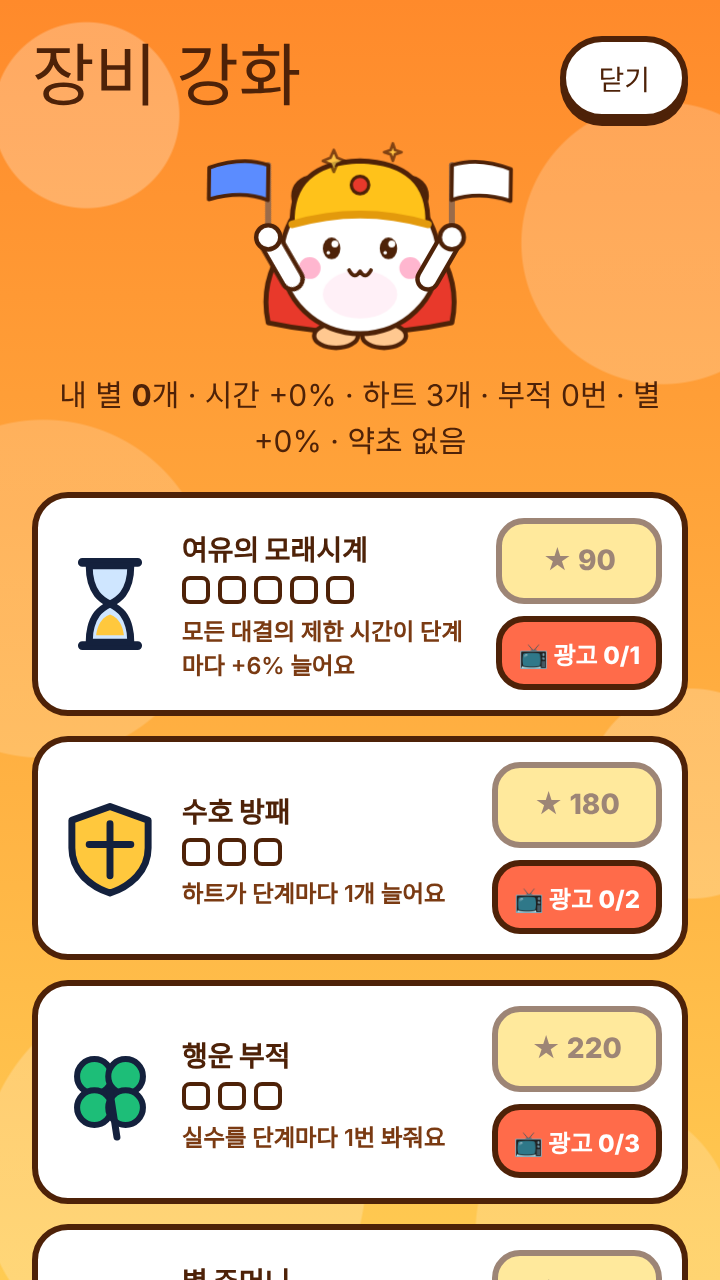
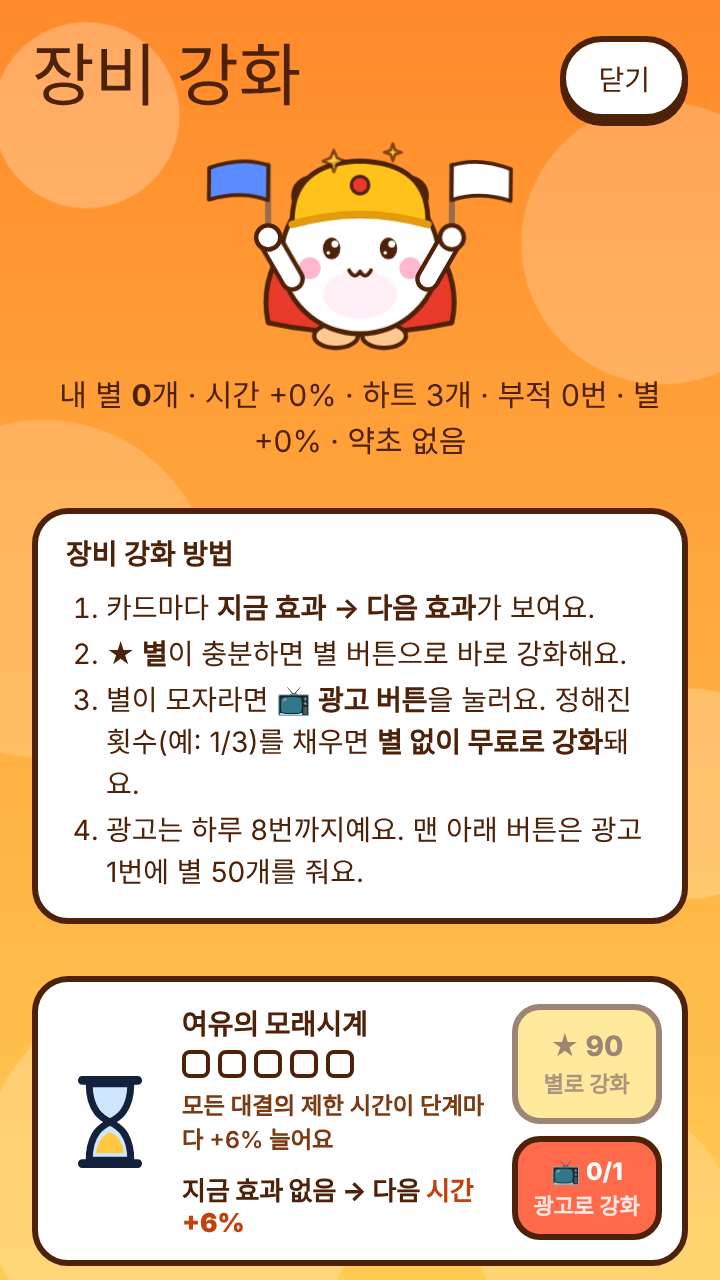
깃발용사: clearer gear upgrade guide (current→next effect, star/ad buttons)
Claude-Session: https://claude.ai/code/session_0134mUxM4o6J5pGvRH1fZomD

Changed region(s): [[0.0306, 0.375, 0.9778, 1.0]]

diff --git a/hero/index.html b/hero/index.html
@@ -491,6 +491,10 @@ svg [hidden]{display:none !important}
 .eqt small{font-weight:600;color:var(--ink-soft)}
 .lvs{display:flex;gap:4px}.lvs i{width:14px;height:14px;border-radius:4px;border:2px solid var(--ink);background:#fff}.lvs i.on{background:var(--sun)}
 .eqc button{border:3px solid var(--ink);border-radius:14px;padding:10px 12px;font:inherit;font-weight:800;background:var(--sun);color:var(--ink);cursor:pointer;min-width:64px}
+.eqhow{background:#fff;border:3px solid var(--ink);border-radius:18px;padding:10px 14px;margin:8px 0 12px;font-size:14px;line-height:1.5}
+.eqhow ol{margin:6px 0 0;padding-left:20px}.eqhow li{margin:2px 0}
+.eqn{margin-top:4px;font-size:13px;font-weight:800}.eqn .nx{color:#C2410C}
+.eqc button small{display:block;font-size:11px;font-weight:700;opacity:.85;margin-top:1px}
 .eqb{display:flex;flex-direction:column;gap:6px}
 .eqc button.adi{background:var(--coral);color:#fff;font-size:12px;padding:7px 8px}
 .eqc button.adi:disabled{background:var(--line);color:var(--ink-soft)}
@@ -637,6 +641,11 @@ html[data-th="night"] .stage .hero{filter:drop-shadow(0 0 10px rgba(255,255,255,
   <div class="hq"><h2>장비 강화</h2><button class="xbtn" id="shopClose">닫기</button></div>
   <div class="mascot" id="shopMascot"></div>
   <p class="cintro" style="min-height:0;margin:0">내 별 <b id="shopFp"></b>개 · <span id="shopHero"></span></p>
+  <div class="eqhow"><b>장비 강화 방법</b>
+    <ol><li>카드마다 <b>지금 효과 → 다음 효과</b>가 보여요.</li>
+    <li><b>★ 별</b>이 충분하면 별 버튼으로 바로 강화해요.</li>
+    <li>별이 모자라면 <b>📺 광고 버튼</b>을 눌러요. 정해진 횟수(예: 1/3)를 채우면 <b>별 없이 무료로 강화</b>돼요.</li>
+    <li>광고는 하루 8번까지예요. 맨 아래 버튼은 광고 1번에 별 50개를 줘요.</li></ol></div>
   <div class="eqlist" id="shopGrid"></div>
   <button class="cta adbtn" id="shopAd" type="button"></button>
   <p class="rknote">장비는 모험과 용사의 탑 모두에서 효과가 있어요. 별이 모자라면 광고를 보고 모을 수 있어요.</p>
@@ -1196,6 +1205,7 @@ const EQ={
  charm:{n:'행운 부적',e:'실수를 단계마다 1번 봐줘요',max:3,cost:[220,480,900]},
  pouch:{n:'별 주머니',e:'대결에서 받는 별이 단계마다 +10% 늘어요',max:5,cost:[150,270,450,680,980]},
  herb:{n:'응원 약초',e:'연속으로 맞히면 하트가 1개 돌아와요 (8 · 6 · 4연속)',max:3,cost:[300,600,1050]}};
+const EFF={flag:l=>l?`시간 +${l*6}%`:'효과 없음',shield:l=>`하트 ${3+l}개`,charm:l=>l?`실수 ${l}번 봐줌`:'효과 없음',pouch:l=>l?`별 +${l*10}%`:'효과 없음',herb:l=>l?`${[0,8,6,4][l]}연속마다 하트+1`:'효과 없음'};
 const AD_STARS=50,AD_DAILY=8;
 const adNeed=c=>Math.max(1,Math.ceil(c/100));
 const herbN=lv=>[0,8,6,4][lv]||0;
@@ -1535,7 +1545,7 @@ function drawShop(){
   $('#shopHero').textContent=`시간 +${ef*6}% · 하트 ${3+es}개 · 부적 ${ec}번 · 별 +${eq('pouch')*10}% · 약초 ${eq('herb')?herbN(eq('herb'))+'연속':'없음'}`;
   const ad=adLeft();const ab=$('#shopAd');ab.innerHTML=ad>0?`📺 광고 보고 별 ${AD_STARS}개 받기<small>오늘 ${ad}번 남음</small>`:'오늘 광고 보상을 모두 받았어요';ab.disabled=ad<=0;
   $('#shopGrid').innerHTML=Object.keys(EQ).map(k=>{const d=EQ[k],lv=eq(k),full=lv>=d.max,c=d.cost[lv];
-    return `<div class="eqc"><div class="eqi">${EQSVG[k]}</div><div class="eqt"><b>${d.n}</b><span class="lvs">${Array.from({length:d.max},(_,i)=>`<i class="${i<lv?'on':''}"></i>`).join('')}</span><small>${d.e}</small></div><div class="eqb"><button data-k="${k}" class="${!full&&G.coin<c?'no':''}" ${full?'disabled':''}>${full?'최대':'★ '+c}</button>${full?'':`<button class="adi" data-a="${k}" ${adLeft()<=0?'disabled':''}>📺 광고 ${(G.adp&&G.adp[k])||0}/${adNeed(c)}</button>`}</div></div>`}).join('');
+    return `<div class="eqc"><div class="eqi">${EQSVG[k]}</div><div class="eqt"><b>${d.n}</b><span class="lvs">${Array.from({length:d.max},(_,i)=>`<i class="${i<lv?'on':''}"></i>`).join('')}</span><small>${d.e}</small>${full?`<div class="eqn">지금 <b>${EFF[k](lv)}</b> (최대)</div>`:`<div class="eqn">지금 <b>${EFF[k](lv)}</b> → 다음 <b class="nx">${EFF[k](lv+1)}</b></div>`}</div><div class="eqb"><button data-k="${k}" class="${!full&&G.coin<c?'no':''}" ${full?'disabled':''}>${full?'최대':'★ '+c+'<small>별로 강화</small>'}</button>${full?'':`<button class="adi" data-a="${k}" ${adLeft()<=0?'disabled':''}>📺 ${(G.adp&&G.adp[k])||0}/${adNeed(c)}<small>광고로 강화</small></button>`}</div></div>`}).join('');
   $('#shopGrid').querySelectorAll('button[data-k]').forEach(b=>b.onclick=()=>{
     const k=b.dataset.k,d=EQ[k],lv=eq(k);if(lv>=d.max)return;const c=d.cost[lv];
     if(G.coin<c){toast(`별이 ${c-G.coin}개 모자라요. 광고를 보면 별 ${AD_STARS}개를 받아요`);const a=$('#shopAd');a.classList.remove('pulse');void a.offsetWidth;a.classList.add('pulse');return}
